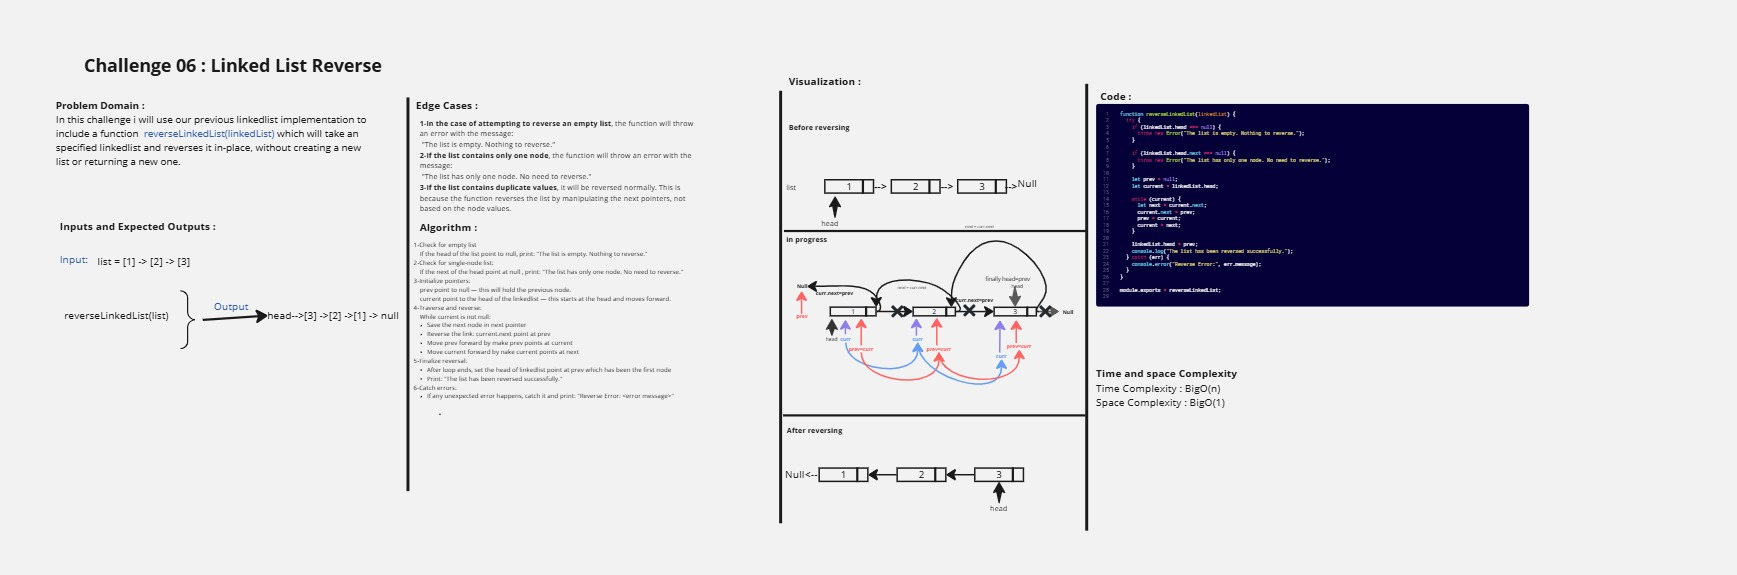
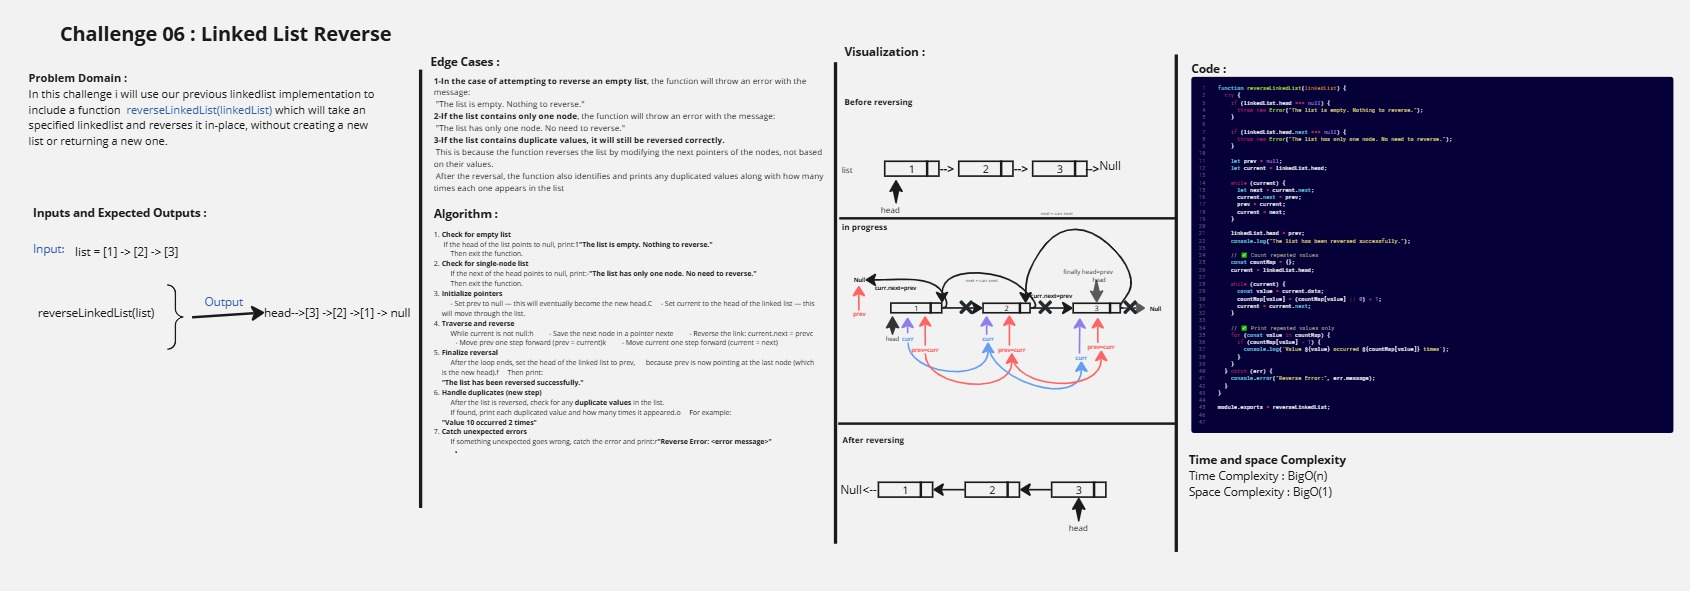
Reverse README file updated with the 3rd edge case

diff --git a/Data-Sturcture/LinkedList/Linked-List-Implementation/Reverse/reverse.js b/Data-Sturcture/LinkedList/Linked-List-Implementation/Reverse/reverse.js
@@ -20,6 +20,23 @@ function reverseLinkedList(linkedList) {
 
     linkedList.head = prev;
     console.log("The list has been reversed successfully.");
+
+    // ✅ Count repeated values
+    const countMap = {};
+    current = linkedList.head;
+
+    while (current) {
+      const value = current.data;
+      countMap[value] = (countMap[value] || 0) + 1;
+      current = current.next;
+    }
+
+    // ✅ Print repeated values only
+    for (const value in countMap) {
+      if (countMap[value] > 1) {
+        console.log(`Value ${value} occurred ${countMap[value]} times`);
+      }
+    }
   } catch (err) {
     console.error("Reverse Error:", err.message);
   }

diff --git a/Data-Sturcture/LinkedList/Linked-List-Implementation/app.js b/Data-Sturcture/LinkedList/Linked-List-Implementation/app.js
@@ -38,3 +38,23 @@ console.log("list with 0 node:");
 
 reverseLinkedList(list3);
 
+console.log("------------------------------------------------------------");
+
+
+const list4 = new LinkedList();
+list4.add(5);
+list4.add(10);
+list4.add(15);
+list4.add(5);
+list4.add(10);
+list4.add(15);
+list4.add(20);
+
+console.log("List with multiple nodes, including duplicated values:");
+console.log("Before Reverse (List 4):");
+list4.printList();
+
+reverseLinkedList(list4);
+
+console.log("After Reverse (List 4):");
+list4.printList();
